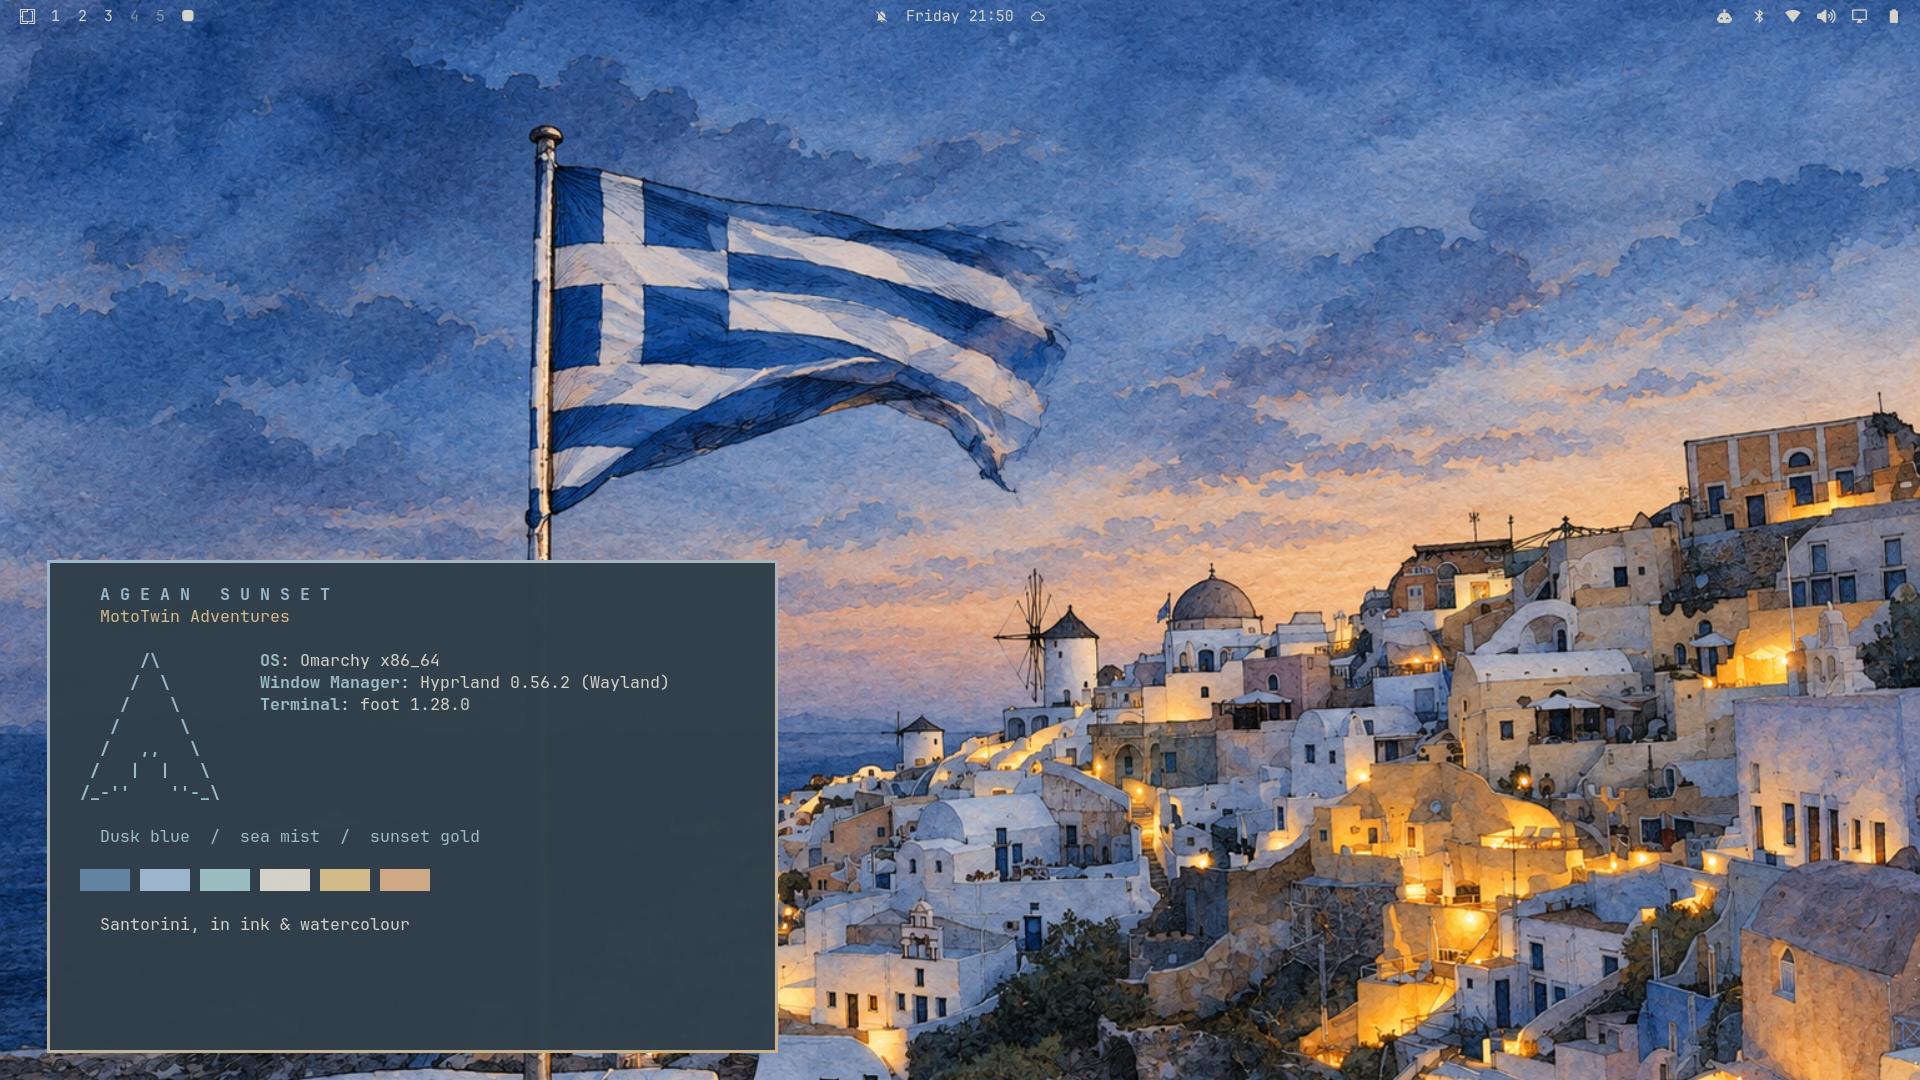
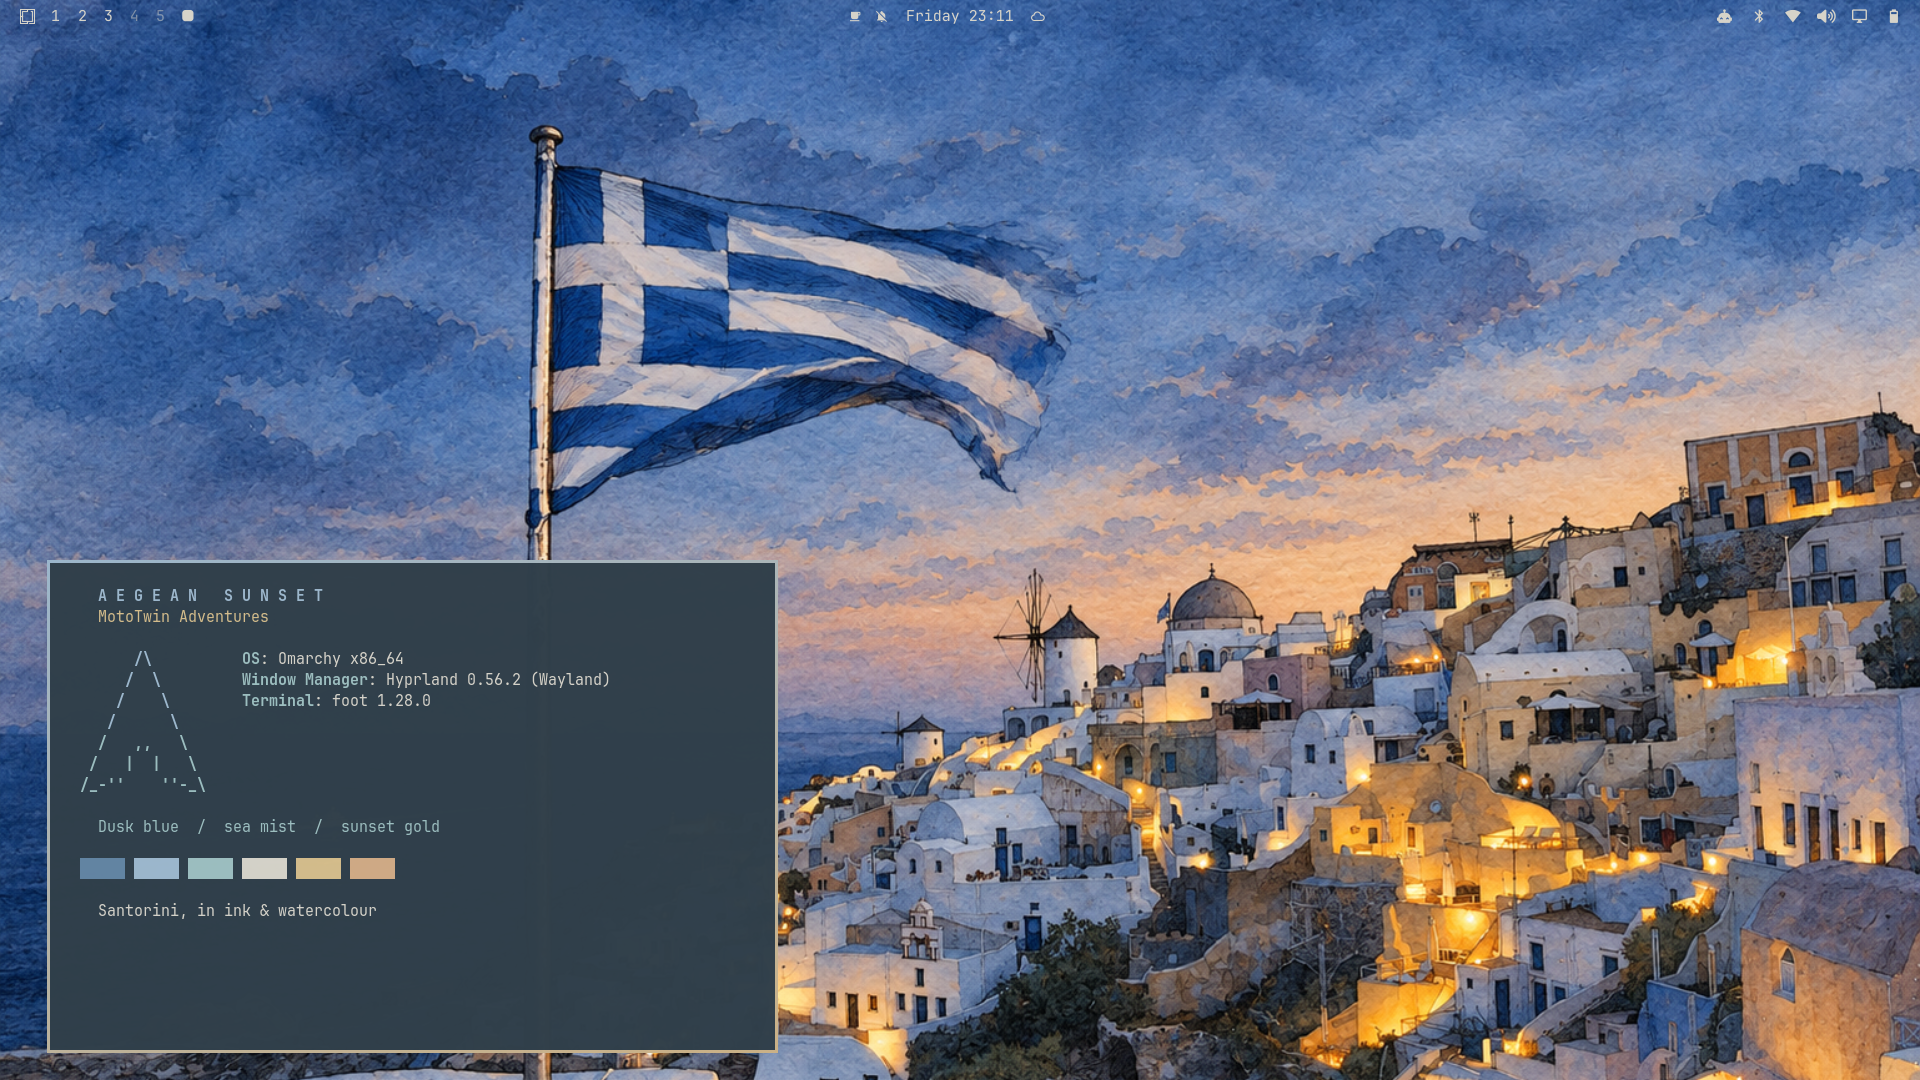
Correct Aegean Sunset name and recapture desktop preview

Changed region(s): [[0.0312, 0.55, 0.3438, 0.6722], [0.0312, 0.7639, 0.25, 0.8556], [0.0625, 0.6111, 0.0938, 0.6417]]

diff --git a/README.md b/README.md
@@ -1,23 +1,23 @@
-# Agean Sunset
+# Aegean Sunset
 
 A soft, dark theme for **Omarchy 4**, inspired by Greek summers.
 
 By [vespovios](https://github.com/vespovios) · [MotoTwin Adventures](https://mototwinadventures.com)
 
-![Agean Sunset desktop preview](preview.png)
+![Aegean Sunset desktop preview](preview.png)
 
 Muted dusk-blue surfaces, soft sandy text, pastel sea blues and gentle sunset-gold accents. The sole wallpaper is a Santorini ink sketch with watercolour highlights.
 
 ## Install
 
 ```bash
-omarchy theme install https://github.com/vespovios/omarchy-agean-sunset-theme
+omarchy theme install https://github.com/vespovios/omarchy-aegean-sunset-theme
 ```
 
 Select it again at any time:
 
 ```bash
-omarchy theme set "Agean Sunset"
+omarchy theme set "Aegean Sunset"
 ```
 
 ## Palette
